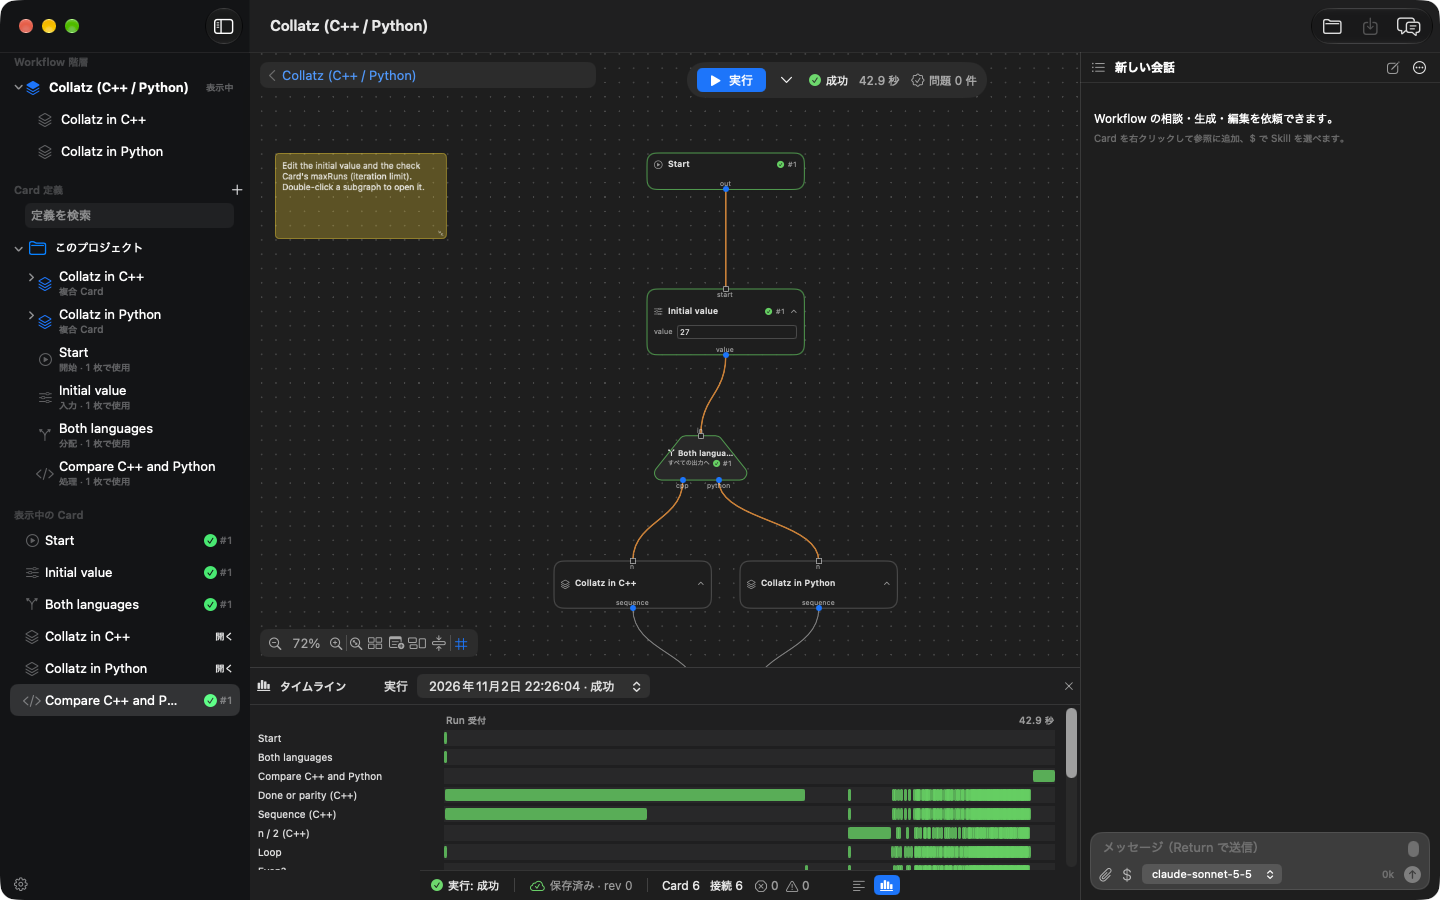
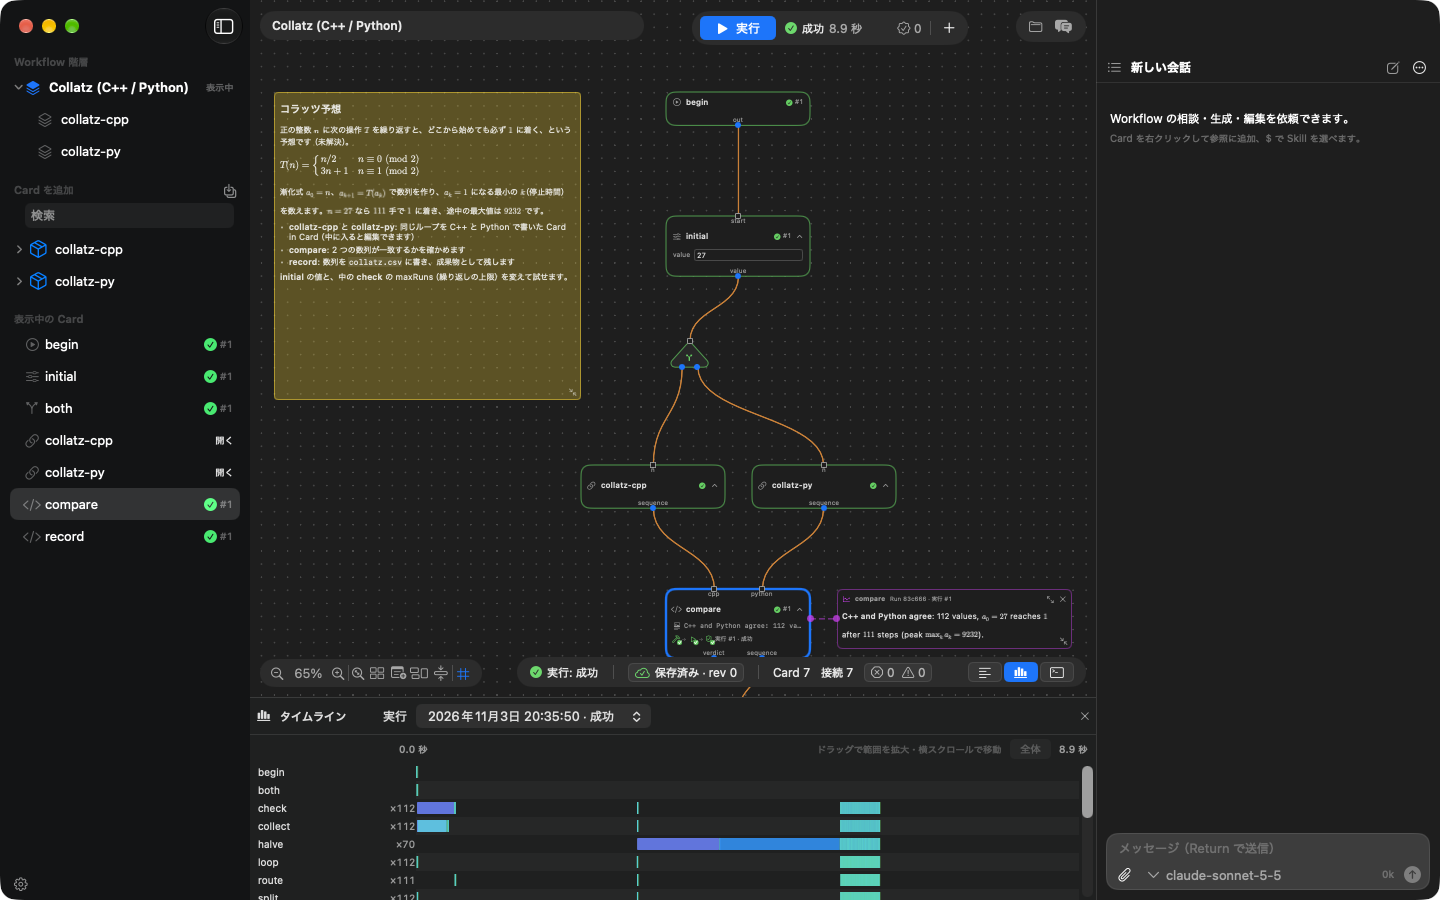
README screenshots from the current app
Retaken from the collatz demo after a run: the canvas with the note's
formulas and the Markdown results, the timeline, the C++ Card in Card
and a Card's source. The UI script brings the app to the front before a
capture and can size other windows.

diff --git a/macOS/Sources/App/Model/UIScript.swift b/macOS/Sources/App/Model/UIScript.swift
@@ -211,6 +211,10 @@ final class UIScript {
         let target = w.count > 2
           ? windows.first { $0.title.contains(wanted) || ($0.identifier?.rawValue.localizedCaseInsensitiveContains(wanted) ?? false) }
           : mainWindow
+        // In front, as when used (the window buttons and selection in their active colors).
+        NSApp.activate()
+        target?.makeKeyAndOrderFront(nil)
+        try? await Task.sleep(for: .milliseconds(300))
         say("capture \(w[1]) \(target?.windowNumber ?? -1)")
         try? await Task.sleep(for: .milliseconds(1800))
       case "zoom":
